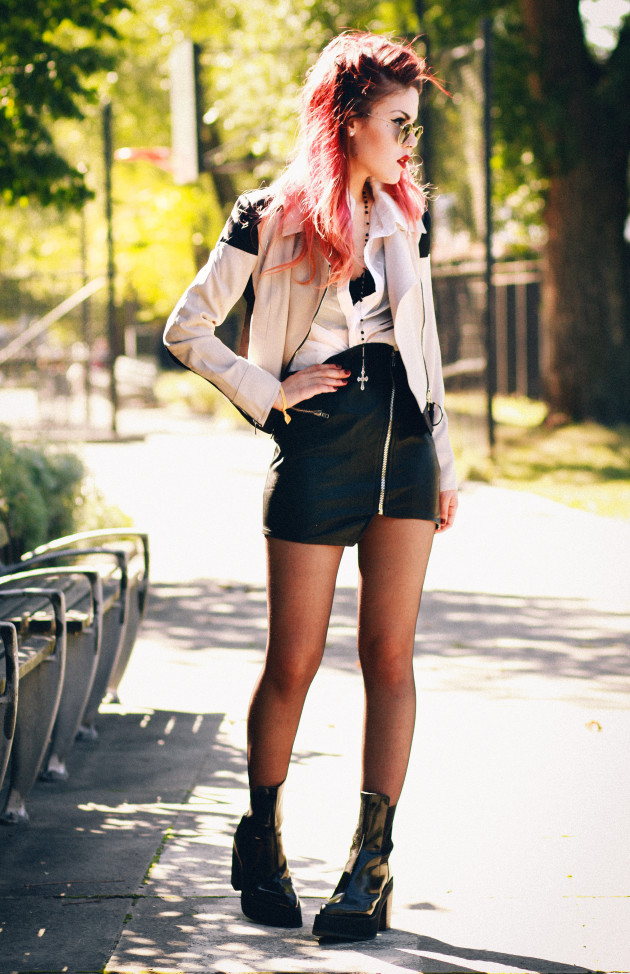
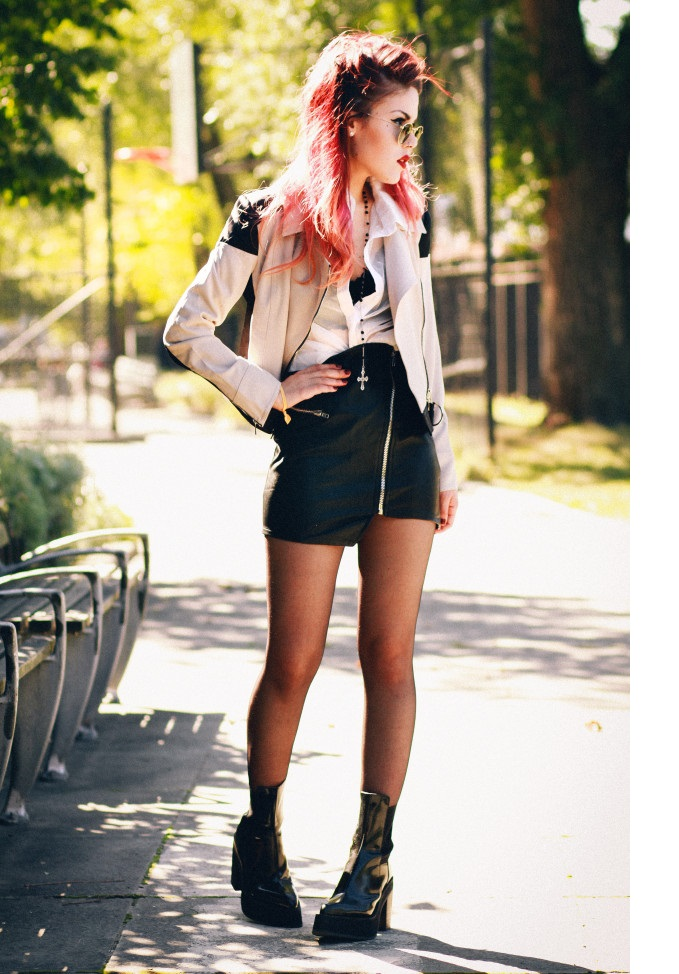
Final iteration of Post

diff --git a/src/components/Post.js b/src/components/Post.js
@@ -4,27 +4,39 @@ import './Post.css';
 const Post = () => {
   return (
 	<div id="pageBody">
-		<a className="pure-button" href="#">Back</a>
+		<div className="spacer"></div>
+		<a className="backButton" href="#">BACK</a>
 		<img className="topPic pure-img" src="/images/lehappy1.jpg" alt="Le Happy 1"></img>
 		<div className="midText">
-			Nōn vereor nē mihi aliquid, iūdicēs, videar adrogāre, sī dē quaestūrā meā dixerō. quamvīs enim illa flōruerit, 
-			tamen eum mē posteā fuisse in maximīs imperiīs arbitror ut nōn ita multum mihi glōriae sit ex quaestūrae laude 
-			repetendum. sed tamen nōn vereor nē quis audeat dīcere ullīus in Siciliā quaestūram aut clāriōrem aut grātiōrem 
-			fuisse. vērē mē hercule hōc dīcam: sīc tum existimābam, nihil hominēs aliud Rōmae nisi dē quaestūrā meā loquī. 
-			frūmentī in summā cāritāte maximum numerum mīseram; negōtiātōribus cōmis, mercātōribus iustus, mancipibus 
-			līberālis, sociīs abstinens, omnibus eram vīsus in omnī officiō dīligentissimus; excōgitātī quīdam erant ā 
-			Siculīs honōrēs in mē inaudītī. itaque hāc spē dēcēdēbam ut mihi populum Rōmānum ultrō omnia dēlātūrum putārem. 
-			at ego cum cāsū diēbus eīs itineris faciendī causā dēcēdens ē prōvinciā Puteolōs forte vēnissem, cum plūrimī et 
-			lautissimī in hīs locīs solent esse, concidī paene, iūdicēs, cum ex mē quīdam quaesisset quō diē Rōmā exissem et 
-			num quidnam esset novī. cui cum respondissem mē dē prōvinciā dēcēdere "etiam mē hercule" inquit, "ut opīnor, ex 
-			Africā". huic ego iam stomachans fastīdiōsē "immō ex Siciliā" inquam. tum quīdam, quasi quī omnia scīret "quid? 
-			tū nescīs" inquit "hunc quaestōrem Syrācūsīs fuisse?" quid multa? destitī stomachārī et mē ūnum ex eīs fēcī quī 
-			ad aquās vēnissent.
+			<h1>I can see through you</h1>
+			
+			Back in the days, I would shoot my blog outfits on a white plain wall making sure the outfit was the only subject. 
+			Its the way I started this blog and I honestly really loved sharing my looks that way!  This shoot with Christina at 
+			her studio reminds me of those posts I used to do and I forgot how much I loved it 
+			
 		</div>
-		<div className="sidePics">
-			<img className="twoPic pure-img" src="/images/lehappy2.jpg" alt="Le Happy 2"></img>
-			<img className="twoPic pure-img" src="/images/lehappy3.jpg" alt="Le Happy 3"></img>
+		<img className="topPic pure-img" src="/images/lehappymerged.jpg" alt="Le Happy 1"></img>
+		<div className="midText">
+			<h1>Some days are just meant for the park</h1>
+			
+			This is one of my favorite outfits involving vintage so far.  I was wearing a vintage sheer dress I got from etsy 
+			and layered it with a mesh white top and wore some shorts underneath.Layering prints can be quite tricky but it is 
+			all about the textures and making sure they blend well together. I definitely will be wearing a lot of mesh this 
+			fall (its currently a major trend) but I won’t be limiting myself to wearing it just as a top! It can be so fun to 
+			wear it under any other piece, particularly a nice printed dress or a vintage t-shirt.
+			
 		</div>
+		<img className="topPic pure-img" src="/images/lehappy4.jpg" alt="Le Happy 1"></img>
+		<div className="midText">
+			<h1>I wanna be sedated</h1>
+			
+			One of those outfits that were totally a no brainer today. Whenever I get anything plaid, I feel the urge of going 
+			back to my roots haha and pair it with a band tee lol. Such a cliche/ overused / extra and expected combo but I 
+			can’t control myself. I’ve had this Ramones tee for so long, so it felt quite good to take it out for a walk! 
+			
+		</div>
+		
+		<div className="spacer"></div>
 	</div>
   )
 }

diff --git a/src/components/Post.css b/src/components/Post.css
@@ -1,34 +1,78 @@
 @import url('https://fonts.googleapis.com/css?family=Abril+Fatface%7CRaleway');
 
+body {
+	background-color: white;
+}
+
+.spacer {
+	height: 110px;
+}
+
 .topPic {
-	width: 90%;
+	width: 35%;
+	margin: auto;
 	margin-bottom: 20px;
+	margin-top: 20px;
+	min-width: 500px;
 }
 
 .twoPic {
 	height: 100%;
 	display: inline;
 	margin: 10px;
+	max-width: 100%;
+    max-height: 100%;
+	max-height: 476px;
 }
 
 .sidePics {
+	margin: auto;
 	margin-top: 20px;
 	margin-bottom: 200px;
-	height: 1287px;
+	width: 35%;
+	min-width: 500px;
 }
 
 .midText {
-	width: 75%;
+	width: 35%;
 	margin: auto;
-	font-family: 'Raleway';
-	font-size: 25px;
+	font-family: 'Raleway', monospace;
+	font-size: 18px;
 	letter-spacing: 1px;
+	text-align: center;
+	min-width:500px;
 }
 
-.pure-button {
-	height: 90px;
-	width: 90px;
+a {
 	position: fixed;
-	top: 2px;
-	left: 2px;
+	left: 25%;
+	top: 130px;
+}
+
+a:link, a:visited, a:active {
+	text-decoration: none;
+	font-variant: small-caps;
+	font-size: 20px;
+	border: 1px solid white;
+	padding: 10px;
+	background-color: black;
+	color: white;
+}
+
+a:hover {
+	text-decoration: none;
+	font-variant: small-caps;
+	color: #232323 ;
+	font-size: 20px;
+	border: 1px solid black;
+	padding: 10px;
+	background-color: white;
+	color: black;
+}
+
+h1 {
+	margin: auto;
+	font-family: 'Abril Fatface', monospace;
+	font-size: 40px;
+	letter-spacing: 2px;
 }
